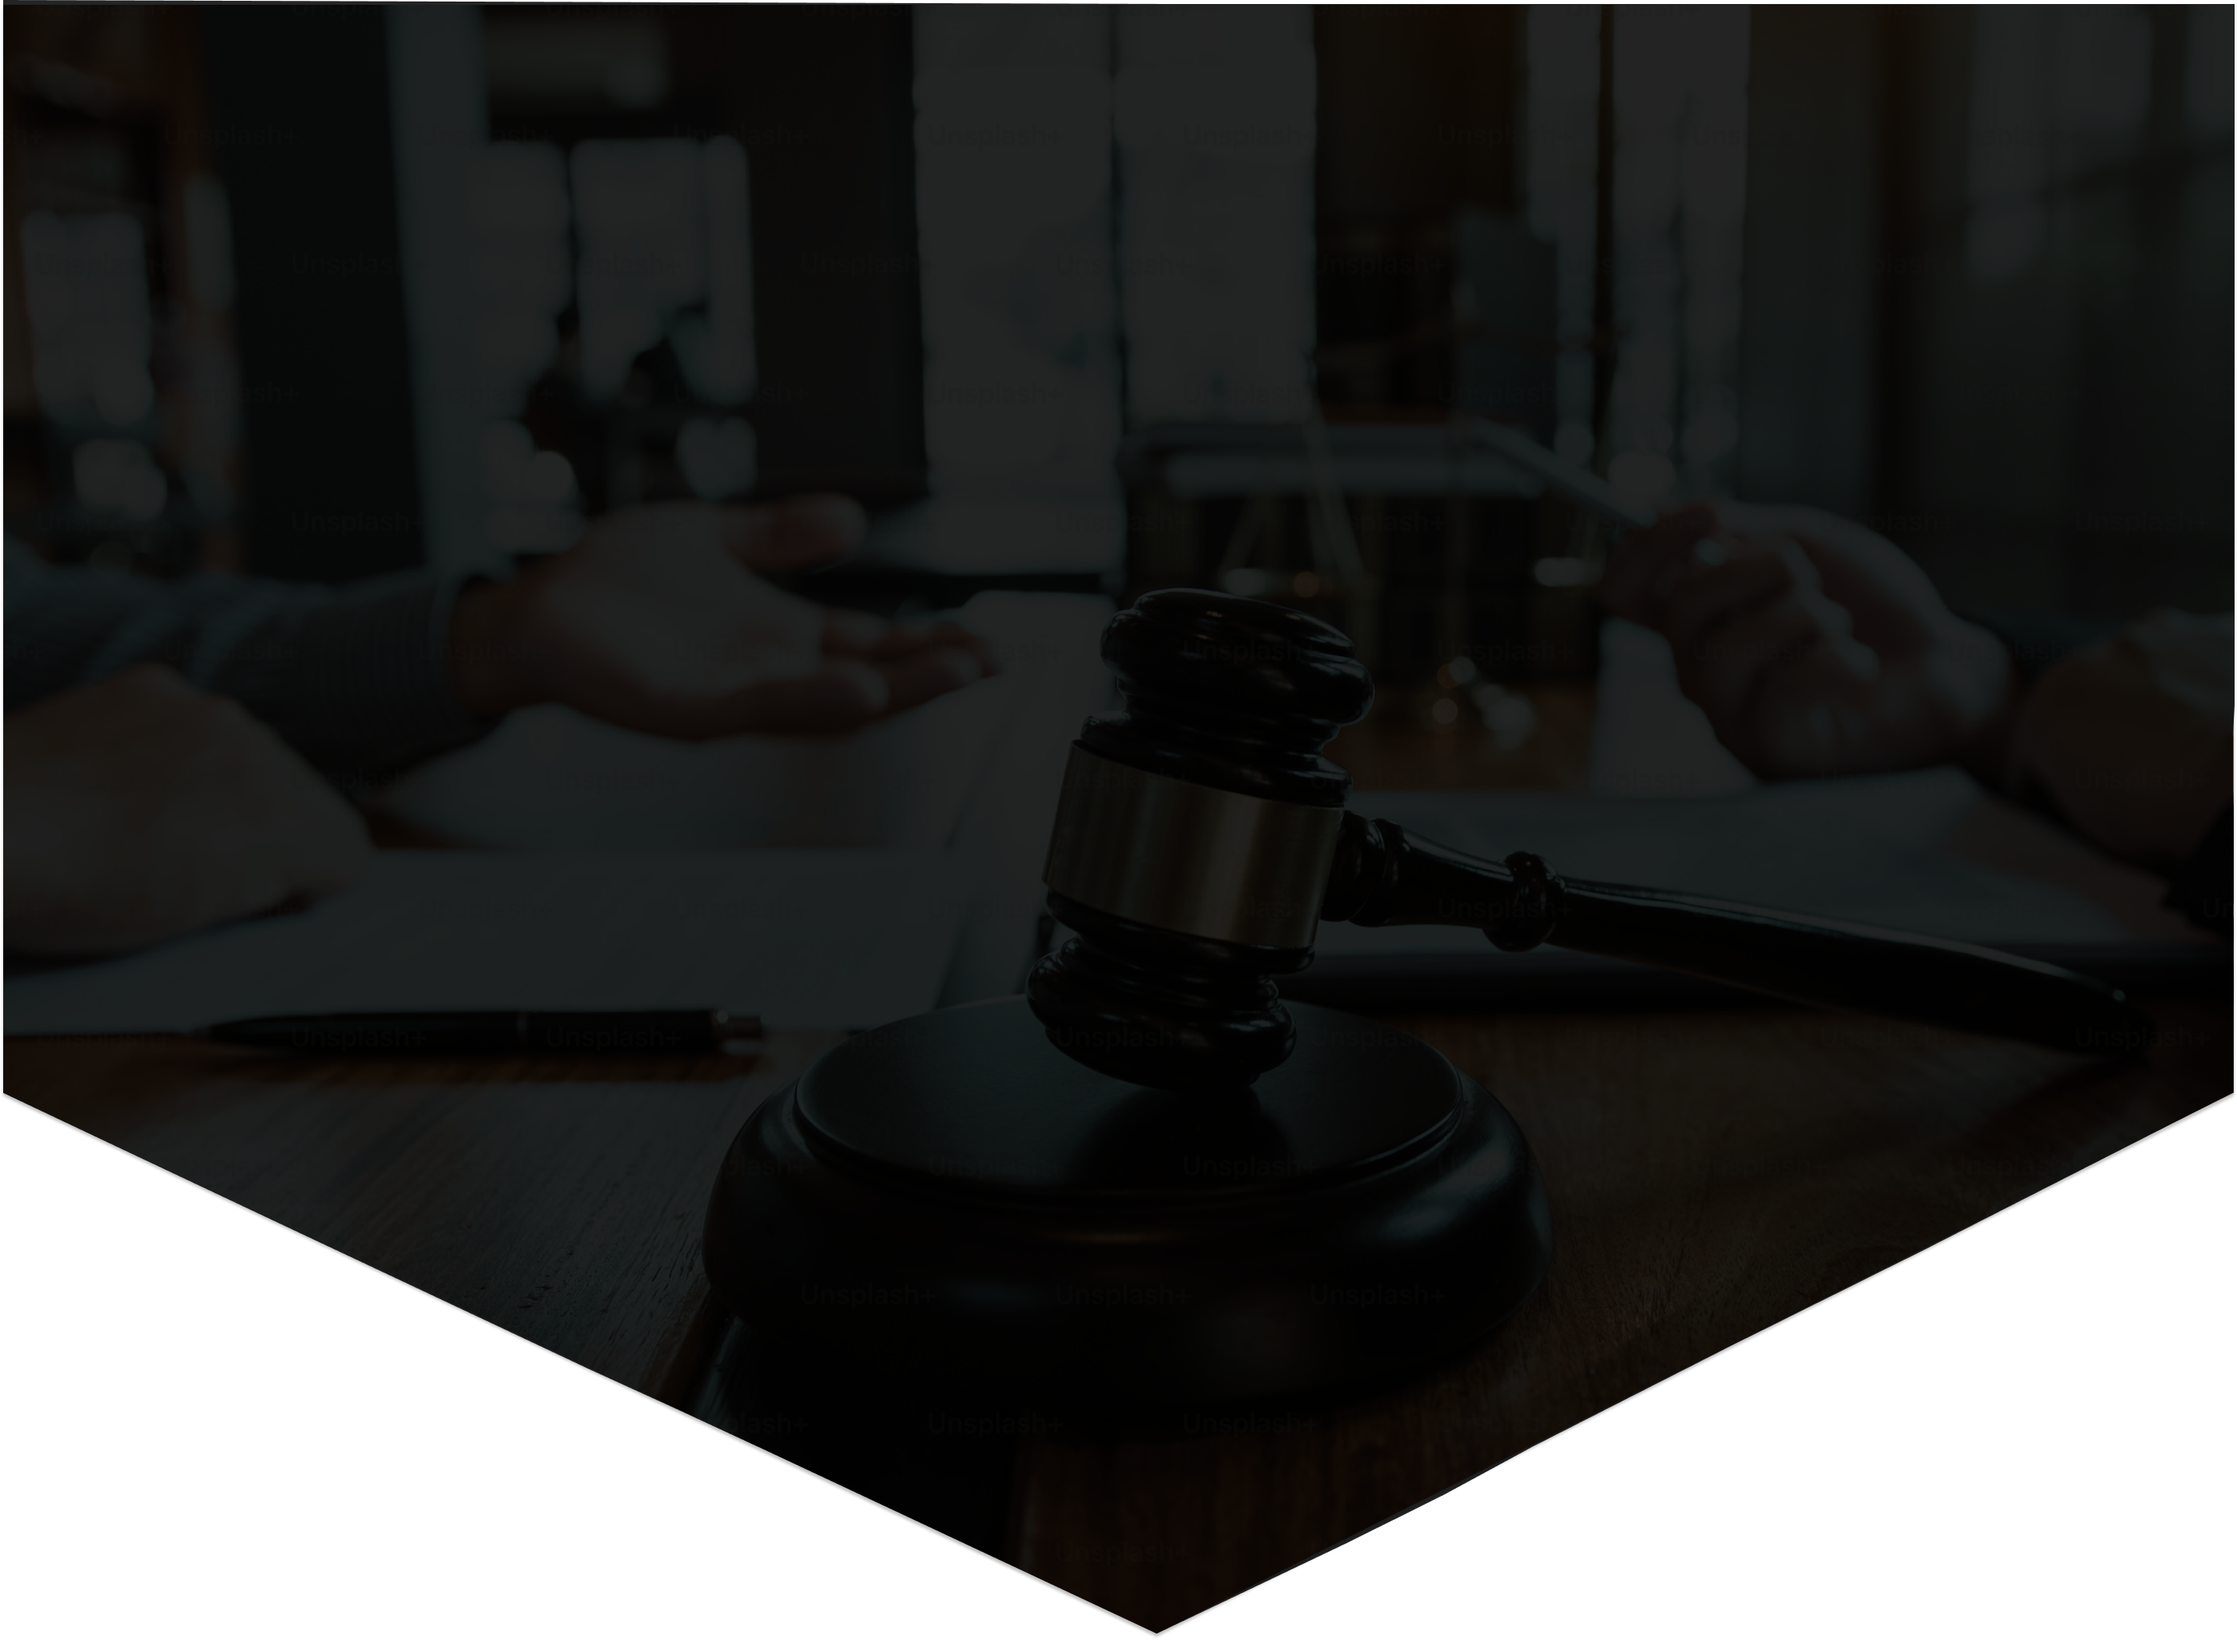
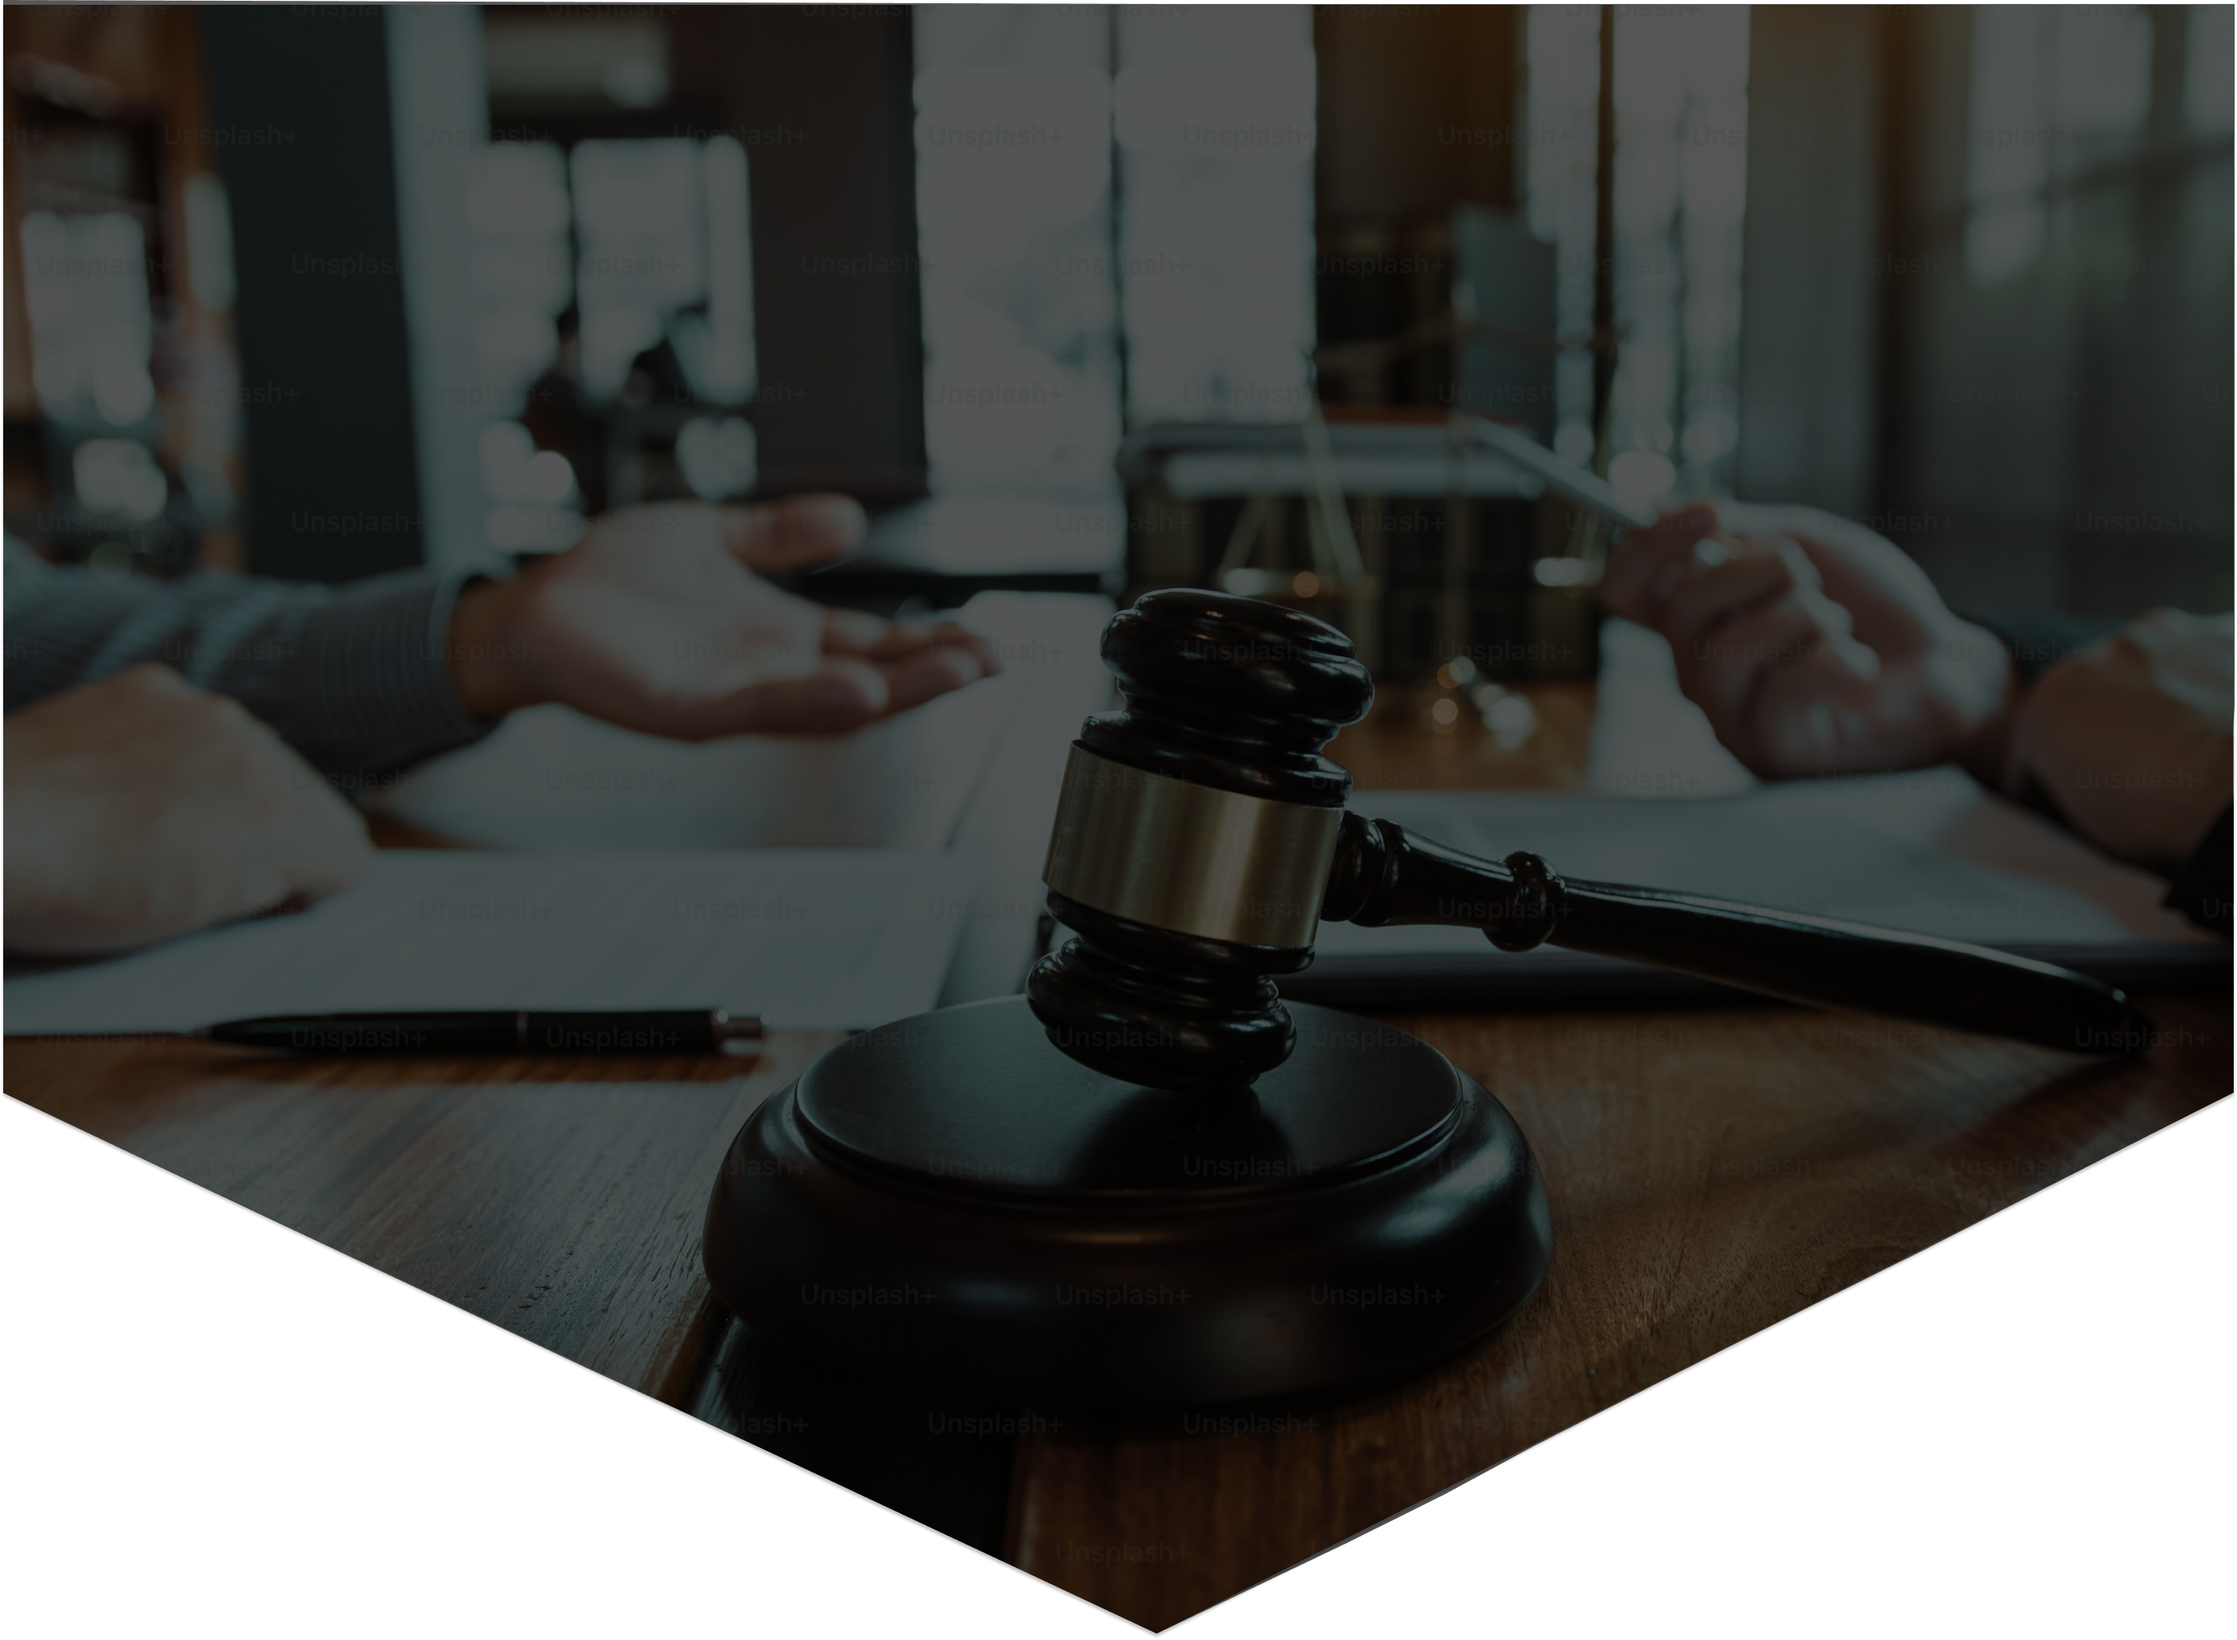
fix: Alteração da imagem da sessão Hero

diff --git a/app/page.tsx b/app/page.tsx
@@ -7,49 +7,14 @@ import { Hero } from "@/components/Hero";
 import { LocationSection } from "@/components/LocationSection";
 import { Testimonials } from "@/components/Testimonials";
 
-//import meta tags of site.
-import { Metadata } from "next";
-
-export const metadata: Metadata = {
-    title: 'Escritório de Advocacia Maurício Sampaio',
-    description:
-      'O Escritório de Advocacia Maurício Sampaio oferece serviços jurídicos de alta qualidade, com uma equipe de advogados experientes e especializados em diversas áreas do Direito, incluindo Direito Civil, Direito Empresarial, Direito Tributário e Direito Trabalhista. Nossa missão é proporcionar soluções jurídicas eficazes e personalizadas, garantindo a proteção dos direitos e interesses de nossos clientes. Nosso escritório se destaca pelo compromisso com a ética, transparência e atendimento humanizado. Trabalhamos tanto com consultoria preventiva quanto com a defesa em processos judiciais, sempre buscando a melhor estratégia para cada caso. Se você precisa de assessoria jurídica confiável, entre em contato conosco. No Escritório de Advocacia Maurício Sampaio, seu problema é nossa prioridade!',
-    openGraph: {
-      type: 'website',
-      url: 'https://www.Meuovo1234.com.br',
-      title: 'Escritório de Advocacia Maurício Sampaio',
-      description:
-        'O Escritório de Advocacia Maurício Sampaio oferece serviços jurídicos de alta qualidade, com uma equipe de advogados experientes e especializados em diversas áreas do Direito, incluindo Direito Civil, Direito Empresarial, Direito Tributário e Direito Trabalhista. Nossa missão é proporcionar soluções jurídicas eficazes e personalizadas, garantindo a proteção dos direitos e interesses de nossos clientes.',
-      images: [
-        {
-          url: 'https://www.MeuOvo1234.com.br/IMGLOGO.png',
-          width: 800,
-          height: 800,
-          alt: 'Logo Escritório',
-        },
-      ],
-      siteName: 'Escritório Maurício Sampaio',
-    },
-    twitter: {
-      card: 'summary_large_image',
-      site: '@EscritórioMaurícioSampaio',
-      creator: '@mauricioSampaio',
-      title: 'Escritório de Advocacia Maurício Sampaio',
-      description:
-        'O Escritório de Advocacia Maurício Sampaio oferece serviços jurídicos de alta qualidade, com uma equipe de advogados experientes e especializados em diversas áreas do Direito, incluindo Direito Civil, Direito Empresarial, Direito Tributário e Direito Trabalhista.',
-      images: ['https://www.MeuOvo1234.com.br/IMGLOGO.png'],
-    },
-    robots: {
-      index: true,
-      follow: true,
-    },
-  };
-
 export default function Home() {
 
   return (
     <>
     <main>
+    <head>
+    <meta name="google-site-verification" content="M4Pw1J2X-V6c2FotMav2KX72M48-Zvp0Lhnc9Q4qOnI" />
+    </head>
       <Hero />
       <Featured />
       <AboutOffice />

diff --git a/next-seo.config.ts b/next-seo.config.ts
@@ -6,13 +6,13 @@ export const metadata: Metadata = {
       'O Escritório de Advocacia Maurício Sampaio oferece serviços jurídicos de alta qualidade, com uma equipe de advogados experientes e especializados em diversas áreas do Direito, incluindo Direito Civil, Direito Empresarial, Direito Tributário e Direito Trabalhista. Nossa missão é proporcionar soluções jurídicas eficazes e personalizadas, garantindo a proteção dos direitos e interesses de nossos clientes. Nosso escritório se destaca pelo compromisso com a ética, transparência e atendimento humanizado. Trabalhamos tanto com consultoria preventiva quanto com a defesa em processos judiciais, sempre buscando a melhor estratégia para cada caso. Se você precisa de assessoria jurídica confiável, entre em contato conosco. No Escritório de Advocacia Maurício Sampaio, seu problema é nossa prioridade!',
     openGraph: {
       type: 'website',
-      url: 'https://www.Meuovo1234.com.br',
+      url: 'https://mauricio-adv-lp.vercel.app/',
       title: 'Escritório de Advocacia Maurício Sampaio',
       description:
         'O Escritório de Advocacia Maurício Sampaio oferece serviços jurídicos de alta qualidade, com uma equipe de advogados experientes e especializados em diversas áreas do Direito, incluindo Direito Civil, Direito Empresarial, Direito Tributário e Direito Trabalhista. Nossa missão é proporcionar soluções jurídicas eficazes e personalizadas, garantindo a proteção dos direitos e interesses de nossos clientes.',
       images: [
         {
-          url: 'https://www.MeuOvo1234.com.br/IMGLOGO.png',
+          url: 'https://mauricio-adv-lp.vercel.app/IMGLOGO.png',
           width: 800,
           height: 800,
           alt: 'Logo Escritório',
@@ -27,7 +27,7 @@ export const metadata: Metadata = {
       title: 'Escritório de Advocacia Maurício Sampaio',
       description:
         'O Escritório de Advocacia Maurício Sampaio oferece serviços jurídicos de alta qualidade, com uma equipe de advogados experientes e especializados em diversas áreas do Direito, incluindo Direito Civil, Direito Empresarial, Direito Tributário e Direito Trabalhista.',
-      images: ['https://www.MeuOvo1234.com.br/IMGLOGO.png'],
+      images: ['https://mauricio-adv-lp.vercel.app/IMGLOGO.png'],
     },
     robots: {
       index: true,

diff --git a/components/Hero.tsx b/components/Hero.tsx
@@ -6,7 +6,7 @@ export function Hero() {
         <section className="relative" id="Home">
     <div className="flex justify-center items-center -mt-40 -z-10">
         <Image
-        src="/ImgHeroBg.webp"
+        src="/ImgHeroBg.png"
         className="w-full h-[950px] lg:h-[1200px]"
         width={500}
         height={100}
